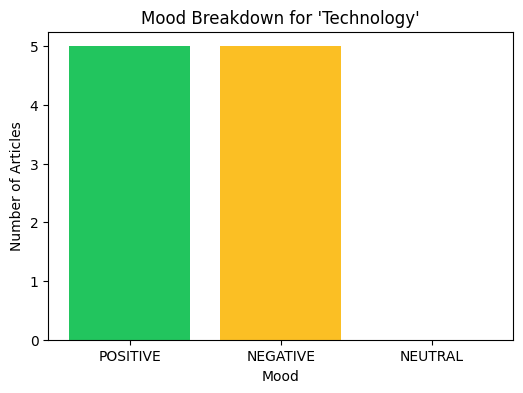
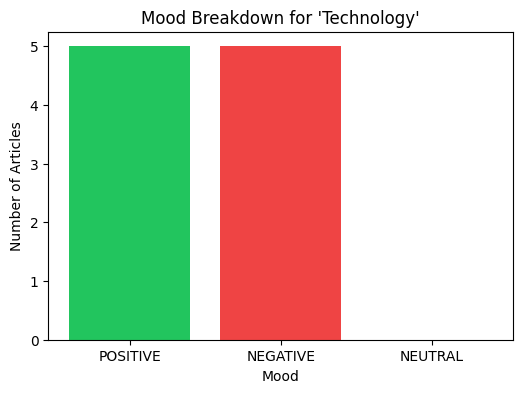
Chart colors fixed

Changed region(s): [[0.3977, 0.0916, 0.673, 0.8855]]

diff --git a/static/styles.css b/static/styles.css
@@ -166,7 +166,7 @@ body {
   margin: 0.25rem 0 0.5rem 0;
 }
 
-/* ✅ Button now visible */
+/* test for the button to be visible */
 .open-btn {
   background-color: #111827;
   color: #fff; /* <- fix for invisible text */

diff --git a/main.py b/main.py
@@ -61,7 +61,7 @@ def show_chart(results, topic):
     counts = list(results.values())
 
     plt.figure(figsize=(6, 4))
-    plt.bar(moods, counts, color=["#22c55e", "#fbbf24", "#ef4444"])
+    plt.bar(moods, counts, color=["#22c55e",  "#ef4444", "#fbbf24"])
     plt.title(f"Mood Breakdown for '{topic}'")
     plt.xlabel("Mood")
     plt.ylabel("Number of Articles")
